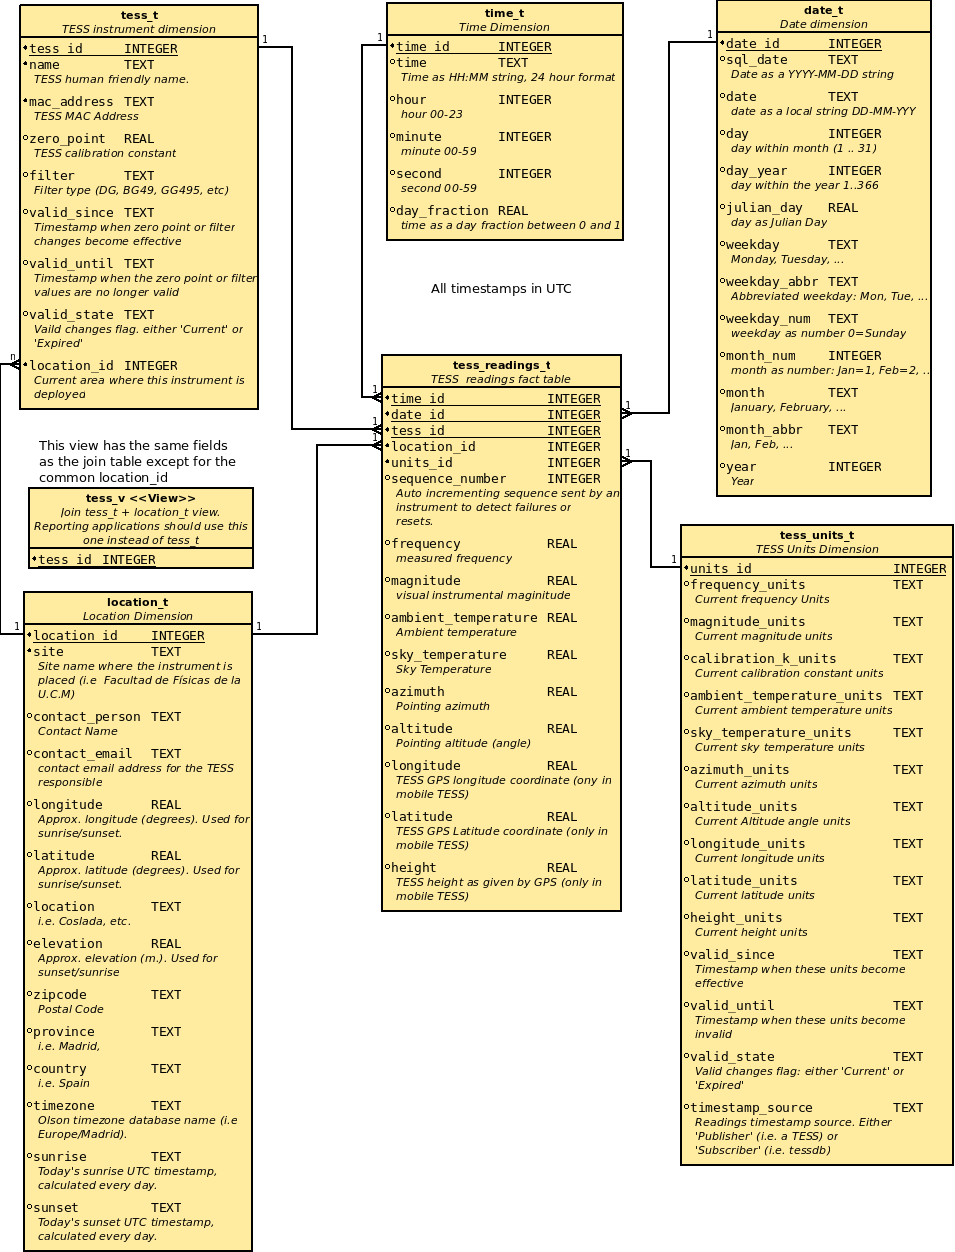
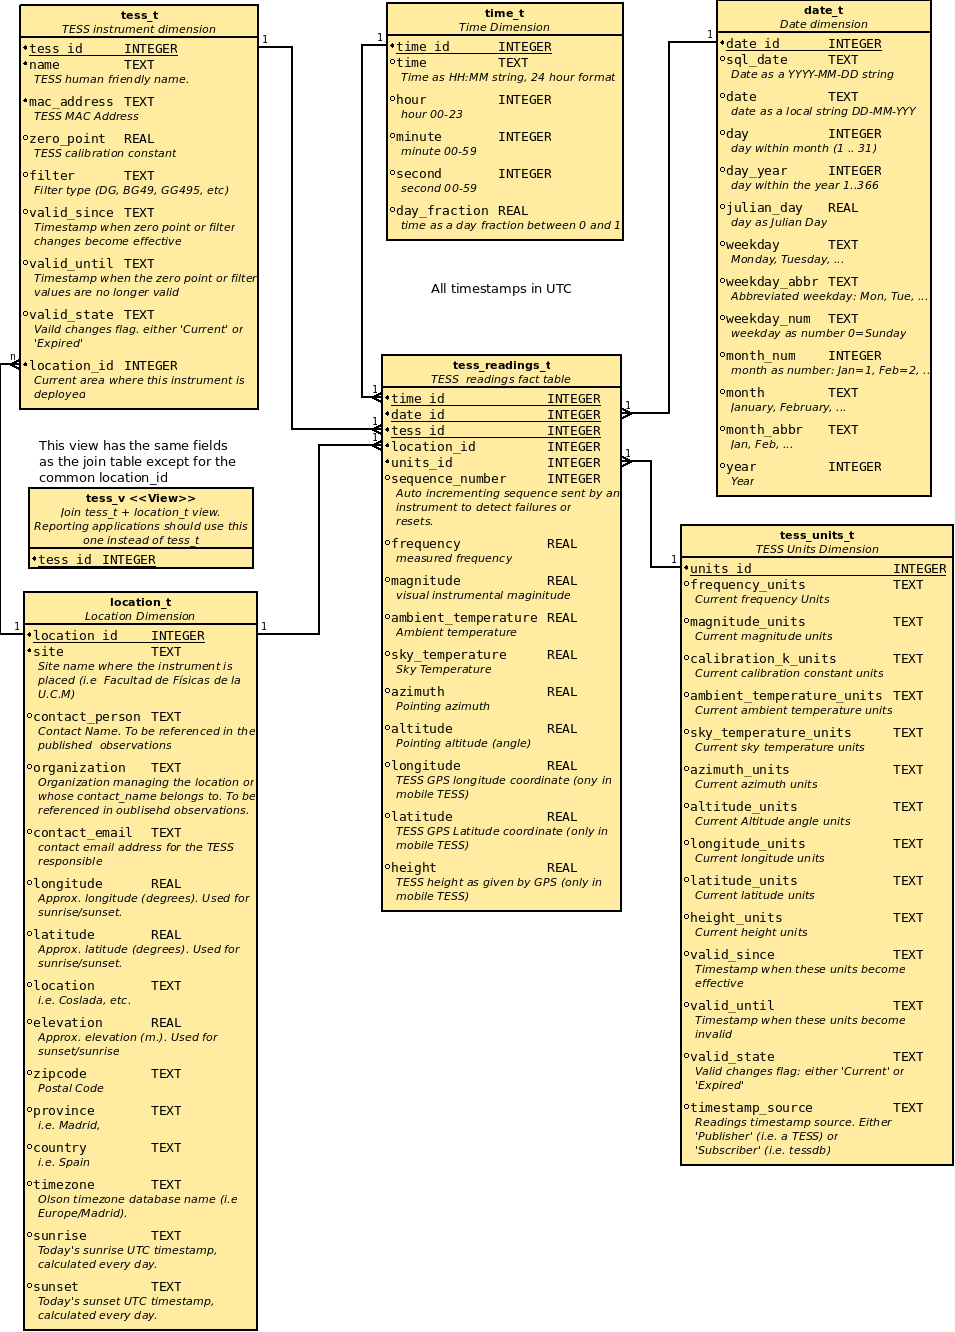
added organiozation column to location table

diff --git a/tessdb/sqlite3/location.py b/tessdb/sqlite3/location.py
@@ -60,7 +60,8 @@ OUT_OF_SERVICE = 'Out of Service'
 DEFAULT_LOCATION = {
     "location_id"   : -1, 
     "contact_name"  : UNKNOWN,
-    "contact_email" : UNKNOWN, 
+    "contact_email" : UNKNOWN,
+    "organization"  : UNKNOWN,
     "site"          : UNKNOWN, 
     "longitude"     : UNKNOWN, 
     "latitude"      : UNKNOWN, 
@@ -75,6 +76,7 @@ OUT_OF_SERVICE_LOCATION = {
     "location_id"   : -2, 
     "contact_name"  : UNKNOWN, 
     "contact_email" : UNKNOWN, 
+    "organization"  : UNKNOWN,
     "site"          : OUT_OF_SERVICE, 
     "longitude"     : UNKNOWN, 
     "latitude"      : UNKNOWN, 
@@ -102,6 +104,7 @@ def _populate(transaction, rows):
             location_id,
             contact_name,
             contact_email,
+            organization,
             site,
             longitude,
             latitude,
@@ -114,6 +117,7 @@ def _populate(transaction, rows):
             :location_id,
             :contact_name,
             :contact_email,
+            :organization,
             :site,
             :longitude,
             :latitude,
@@ -175,7 +179,8 @@ class Location(Table):
             sunrise                 TEXT,
             sunset                  TEXT,
             contact_name            TEXT,
-            timezone                TEXT DEFAULT 'Etc/UTC'
+            timezone                TEXT DEFAULT 'Etc/UTC',
+            organization            TEXT
             );
             '''
         )
